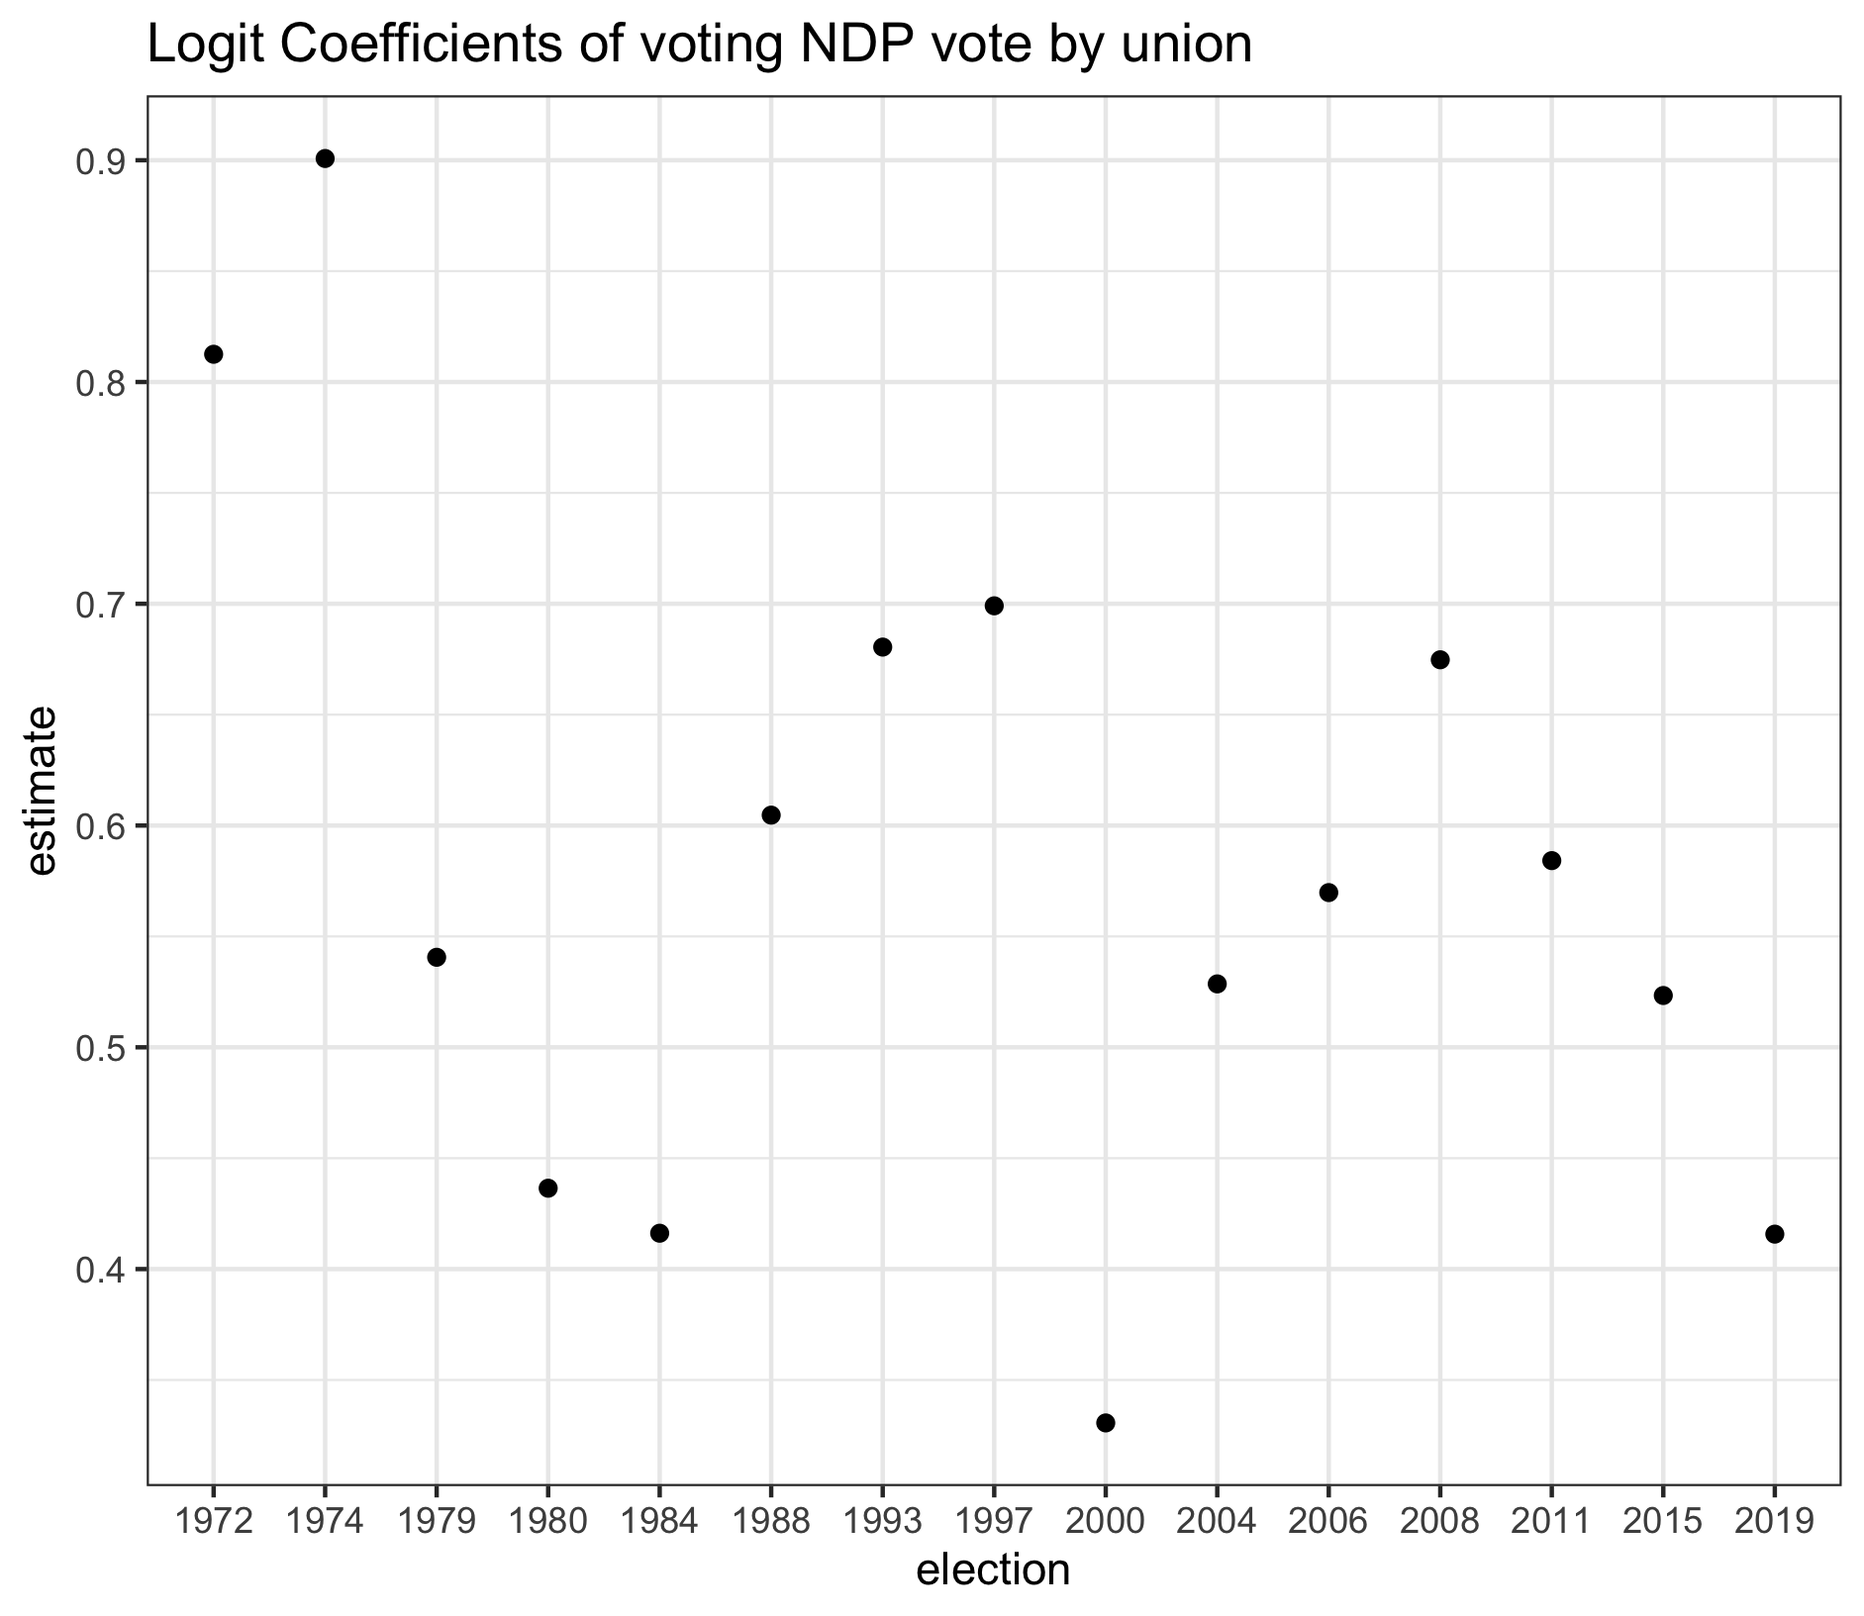
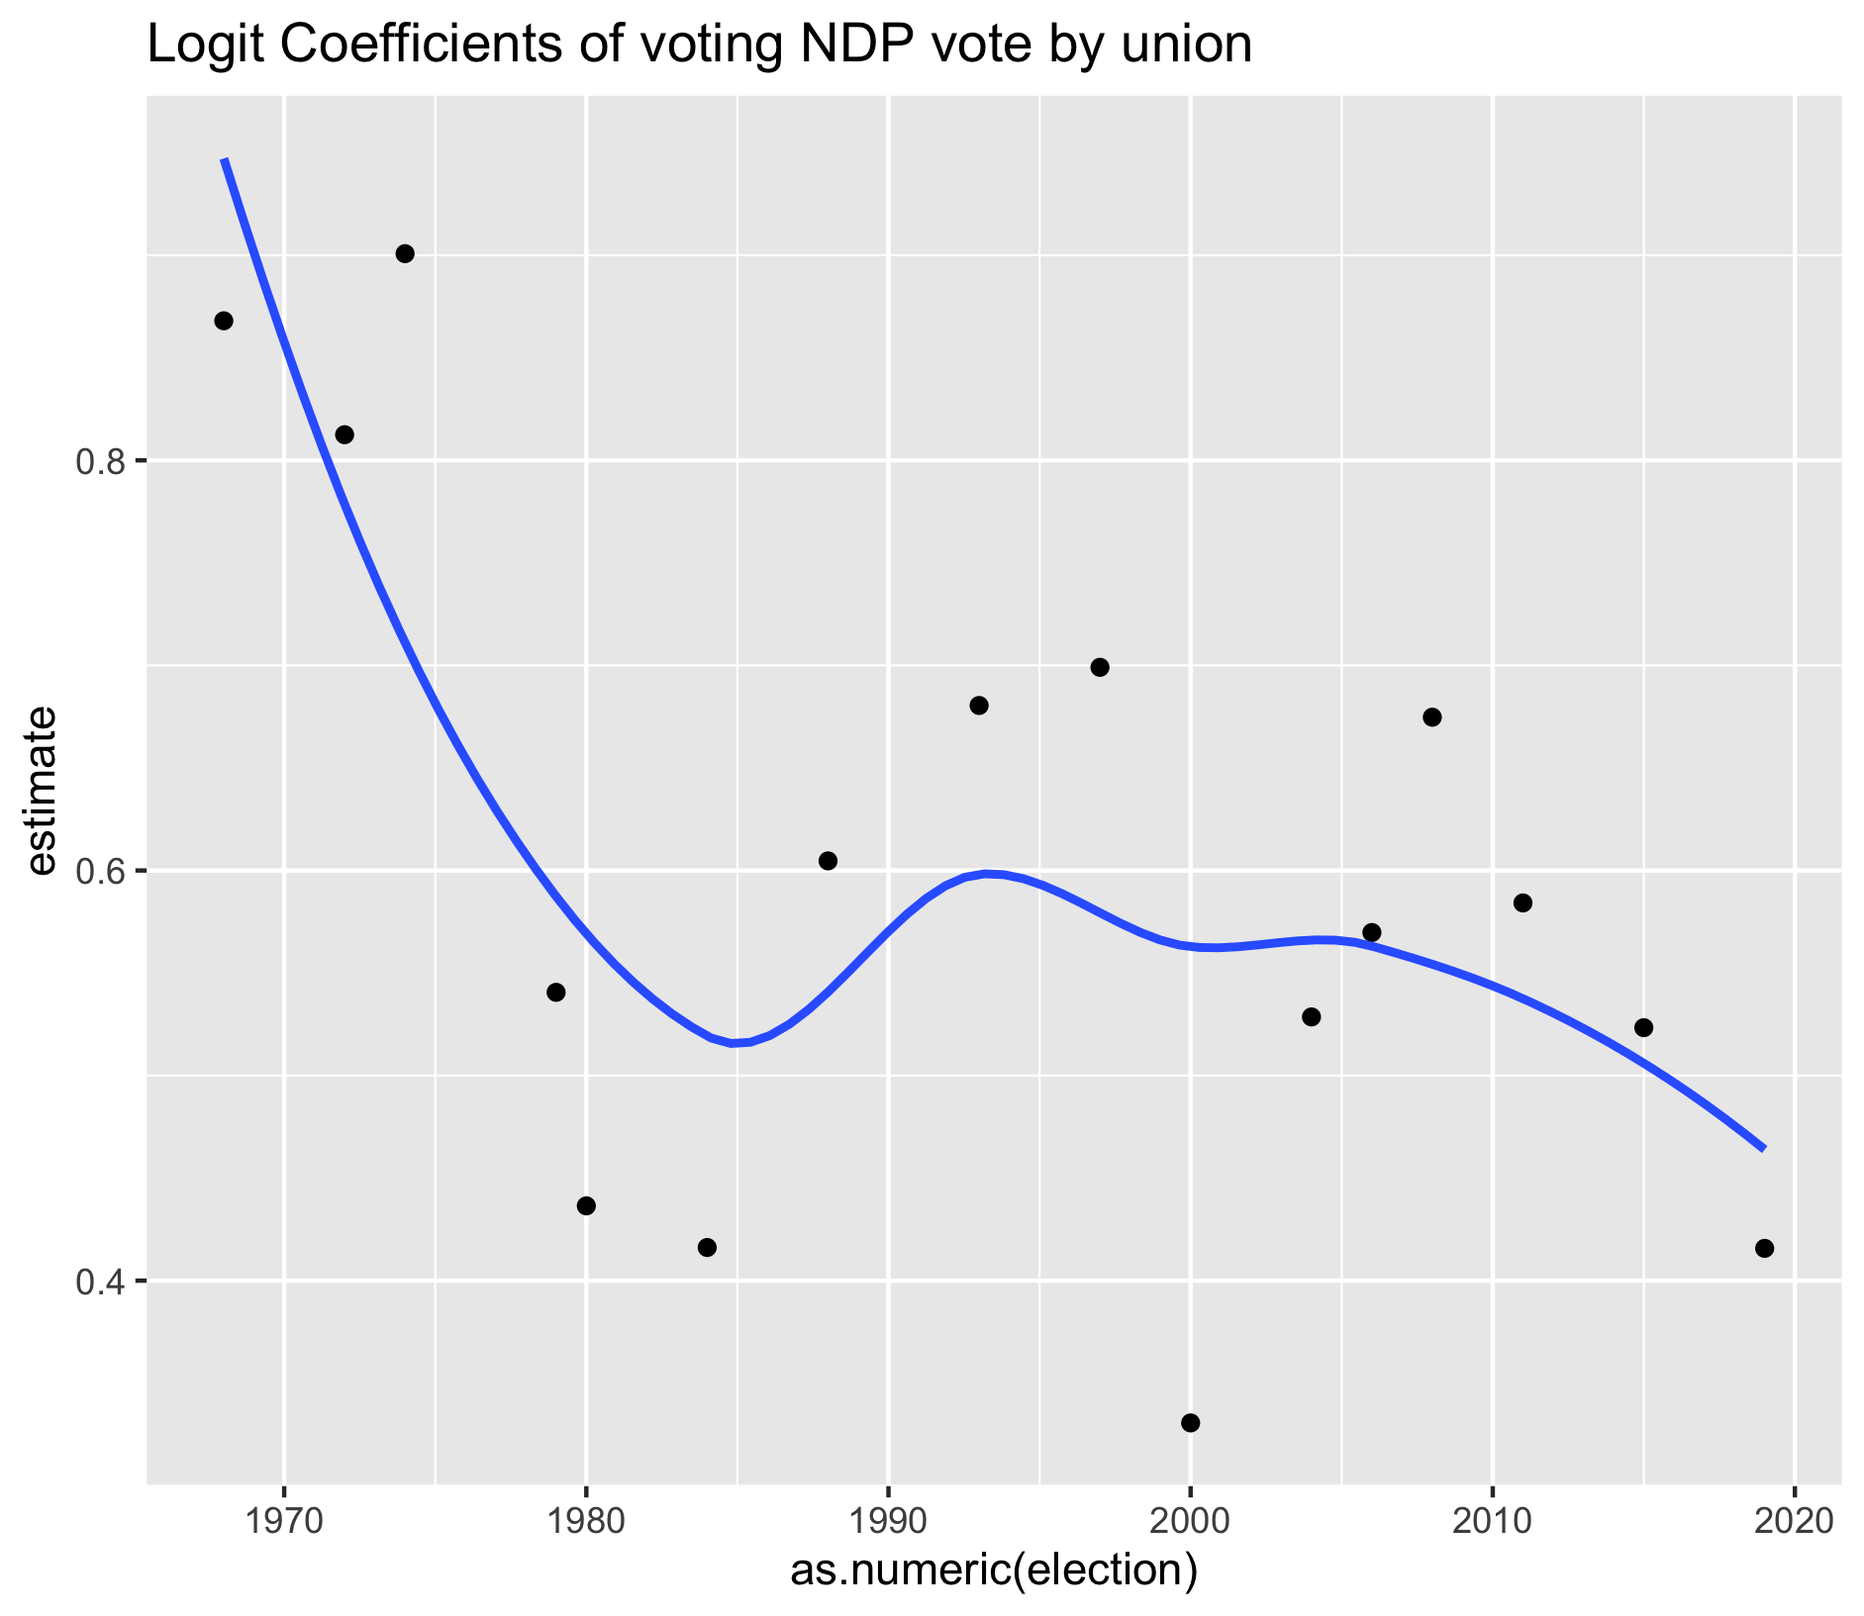
recode

diff --git a/Tables/union_models.html b/Tables/union_models.html
@@ -1,16 +1,19 @@
 
-<table style="text-align:center"><tr><td colspan="16" style="border-bottom: 1px solid black"></td></tr><tr><td style="text-align:left"></td><td colspan="15"><em>Dependent variable:</em></td></tr>
-<tr><td></td><td colspan="15" style="border-bottom: 1px solid black"></td></tr>
-<tr><td style="text-align:left"></td><td colspan="15">ndp</td></tr>
-<tr><td style="text-align:left"></td><td>(1)</td><td>(2)</td><td>(3)</td><td>(4)</td><td>(5)</td><td>(6)</td><td>(7)</td><td>(8)</td><td>(9)</td><td>(10)</td><td>(11)</td><td>(12)</td><td>(13)</td><td>(14)</td><td>(15)</td></tr>
-<tr><td colspan="16" style="border-bottom: 1px solid black"></td></tr><tr><td style="text-align:left">union</td><td>0.813<sup>***</sup></td><td>0.901<sup>***</sup></td><td>0.541<sup>***</sup></td><td>0.436<sup>***</sup></td><td>0.416<sup>***</sup></td><td>0.605<sup>***</sup></td><td>0.680<sup>***</sup></td><td>0.699<sup>***</sup></td><td>0.331<sup>**</sup></td><td>0.529<sup>***</sup></td><td>0.570<sup>***</sup></td><td>0.675<sup>***</sup></td><td>0.584<sup>***</sup></td><td>0.523<sup>***</sup></td><td>0.416<sup>***</sup></td></tr>
-<tr><td style="text-align:left"></td><td>(0.175)</td><td>(0.211)</td><td>(0.126)</td><td>(0.150)</td><td>(0.112)</td><td>(0.109)</td><td>(0.165)</td><td>(0.129)</td><td>(0.160)</td><td>(0.204)</td><td>(0.180)</td><td>(0.165)</td><td>(0.124)</td><td>(0.137)</td><td>(0.119)</td></tr>
-<tr><td style="text-align:left"></td><td></td><td></td><td></td><td></td><td></td><td></td><td></td><td></td><td></td><td></td><td></td><td></td><td></td><td></td><td></td></tr>
-<tr><td style="text-align:left">Constant</td><td>-1.893<sup>***</sup></td><td>-2.510<sup>***</sup></td><td>-1.921<sup>***</sup></td><td>-1.729<sup>***</sup></td><td>-1.794<sup>***</sup></td><td>-1.565<sup>***</sup></td><td>-2.944<sup>***</sup></td><td>-2.280<sup>***</sup></td><td>-2.408<sup>***</sup></td><td>-1.753<sup>***</sup></td><td>-1.759<sup>***</sup></td><td>-1.641<sup>***</sup></td><td>-0.935<sup>***</sup></td><td>-1.486<sup>***</sup></td><td>-1.571<sup>***</sup></td></tr>
-<tr><td style="text-align:left"></td><td>(0.114)</td><td>(0.144)</td><td>(0.076)</td><td>(0.089)</td><td>(0.066)</td><td>(0.070)</td><td>(0.118)</td><td>(0.090)</td><td>(0.098)</td><td>(0.138)</td><td>(0.128)</td><td>(0.116)</td><td>(0.077)</td><td>(0.086)</td><td>(0.060)</td></tr>
-<tr><td style="text-align:left"></td><td></td><td></td><td></td><td></td><td></td><td></td><td></td><td></td><td></td><td></td><td></td><td></td><td></td><td></td><td></td></tr>
-<tr><td colspan="16" style="border-bottom: 1px solid black"></td></tr><tr><td style="text-align:left">Observations</td><td>976</td><td>998</td><td>2,180</td><td>1,393</td><td>2,633</td><td>2,136</td><td>2,380</td><td>2,285</td><td>2,007</td><td>671</td><td>837</td><td>912</td><td>1,275</td><td>1,339</td><td>2,452</td></tr>
-<tr><td style="text-align:left">Log Likelihood</td><td>-431.422</td><td>-322.461</td><td>-905.692</td><td>-629.651</td><td>-1,148.811</td><td>-1,076.589</td><td>-572.747</td><td>-827.525</td><td>-612.861</td><td>-310.264</td><td>-393.063</td><td>-458.277</td><td>-794.814</td><td>-689.889</td><td>-1,173.357</td></tr>
-<tr><td style="text-align:left">Akaike Inf. Crit.</td><td>866.844</td><td>648.922</td><td>1,815.383</td><td>1,263.302</td><td>2,301.623</td><td>2,157.179</td><td>1,149.494</td><td>1,659.050</td><td>1,229.722</td><td>624.528</td><td>790.125</td><td>920.554</td><td>1,593.629</td><td>1,383.777</td><td>2,350.714</td></tr>
-<tr><td colspan="16" style="border-bottom: 1px solid black"></td></tr><tr><td style="text-align:left"><em>Note:</em></td><td colspan="15" style="text-align:right"><sup>*</sup>p<0.1; <sup>**</sup>p<0.05; <sup>***</sup>p<0.01</td></tr>
+<table style="text-align:center"><tr><td colspan="17" style="border-bottom: 1px solid black"></td></tr><tr><td style="text-align:left"></td><td colspan="16"><em>Dependent variable:</em></td></tr>
+<tr><td></td><td colspan="16" style="border-bottom: 1px solid black"></td></tr>
+<tr><td style="text-align:left"></td><td colspan="16">ndp</td></tr>
+<tr><td style="text-align:left"></td><td>(1)</td><td>(2)</td><td>(3)</td><td>(4)</td><td>(5)</td><td>(6)</td><td>(7)</td><td>(8)</td><td>(9)</td><td>(10)</td><td>(11)</td><td>(12)</td><td>(13)</td><td>(14)</td><td>(15)</td><td>(16)</td></tr>
+<tr><td colspan="17" style="border-bottom: 1px solid black"></td></tr><tr><td style="text-align:left">union</td><td>0.868<sup>***</sup></td><td>0.813<sup>***</sup></td><td>0.901<sup>***</sup></td><td>0.541<sup>***</sup></td><td>0.436<sup>***</sup></td><td>0.416<sup>***</sup></td><td>0.605<sup>***</sup></td><td>0.680<sup>***</sup></td><td>0.699<sup>***</sup></td><td>0.331<sup>**</sup></td><td>0.529<sup>***</sup></td><td>0.570<sup>***</sup></td><td>0.675<sup>***</sup></td><td>0.584<sup>***</sup></td><td>0.523<sup>***</sup></td><td>0.416<sup>***</sup></td></tr>
+<tr><td style="text-align:left"></td><td>(0.145)</td><td>(0.175)</td><td>(0.211)</td><td>(0.126)</td><td>(0.150)</td><td>(0.112)</td><td>(0.109)</td><td>(0.165)</td><td>(0.129)</td><td>(0.160)</td><td>(0.204)</td><td>(0.180)</td><td>(0.165)</td><td>(0.124)</td><td>(0.137)</td><td>(0.119)</td></tr>
+<tr><td style="text-align:left"></td><td></td><td></td><td></td><td></td><td></td><td></td><td></td><td></td><td></td><td></td><td></td><td></td><td></td><td></td><td></td><td></td></tr>
+<tr><td style="text-align:left">Constant</td><td>-2.189<sup>***</sup></td><td>-1.893<sup>***</sup></td><td>-2.510<sup>***</sup></td><td>-1.921<sup>***</sup></td><td>-1.729<sup>***</sup></td><td>-1.794<sup>***</sup></td><td>-1.565<sup>***</sup></td><td>-2.944<sup>***</sup></td><td>-2.280<sup>***</sup></td><td>-2.408<sup>***</sup></td><td>-1.753<sup>***</sup></td><td>-1.759<sup>***</sup></td><td>-1.641<sup>***</sup></td><td>-0.935<sup>***</sup></td><td>-1.486<sup>***</sup></td><td>-1.571<sup>***</sup></td></tr>
+<tr><td style="text-align:left"></td><td>(0.076)</td><td>(0.114)</td><td>(0.144)</td><td>(0.076)</td><td>(0.089)</td><td>(0.066)</td><td>(0.070)</td><td>(0.118)</td><td>(0.090)</td><td>(0.098)</td><td>(0.138)</td><td>(0.128)</td><td>(0.116)</td><td>(0.077)</td><td>(0.086)</td><td>(0.060)</td></tr>
+<tr><td style="text-align:left"></td><td></td><td></td><td></td><td></td><td></td><td></td><td></td><td></td><td></td><td></td><td></td><td></td><td></td><td></td><td></td><td></td></tr>
+<tr><td colspan="17" style="border-bottom: 1px solid black"></td></tr><tr><td style="text-align:left">Observations</td><td>2,280</td><td>976</td><td>998</td><td>2,180</td><td>1,393</td><td>2,633</td><td>2,136</td><td>2,380</td><td>2,285</td><td>2,007</td><td>671</td><td>837</td><td>912</td><td>1,275</td><td>1,339</td><td>2,452</td></tr>
+<tr><td style="text-align:left">Log Likelihood</td><td>-819.020</td><td>-431.422</td><td>-322.461</td><td>-905.692</td><td>-629.651</td><td>-1,148.811</td><td>-1,076.589</td><td>-572.747</td><td>-827.525</td><td>-612.861</td><td>-310.264</td><td>-393.063</td><td>-458.277</td><td>-794.814</td><td>-689.889</td><td>-1,173.357</td></tr>
+<tr><td style="text-align:left">Akaike Inf. Crit.</td><td>1,642.039</td><td>866.844</td><td>648.922</td><td>1,815.383</td><td>1,263.302</td><td>2,301.623</td><td>2,157.179</td><td>1,149.494</td><td>1,659.050</td><td>1,229.722</td><td>624.528</td><td>790.125</td><td>920.554</td><td>1,593.629</td><td>1,383.777</td><td>2,350.714</td></tr>
+<tr><td colspan="17" style="border-bottom: 1px solid black"></td></tr><tr><td style="text-align:left"><em>Note:</em></td><td colspan="16" style="text-align:right"><sup>*</sup>p<0.1; <sup>**</sup>p<0.05; <sup>***</sup>p<0.01</td></tr>
 </table>
+
+<table style="text-align:center"><tr><td colspan="16" style="border-bottom: 1px solid black"></td></tr><tr><td style="text-align:left">1968</td><td>1972</td><td>1974</td><td>1979</td><td>1980</td><td>1984</td><td>1988</td><td>1993</td><td>1997</td><td>2000</td><td>2004</td><td>2006</td><td>2008</td><td>2011</td><td>2015</td><td>2019</td></tr>
+<tr><td colspan="16" style="border-bottom: 1px solid black"></td></tr></table>

diff --git a/Tables/conservative_Models_1968_2015.html b/Tables/conservative_Models_1968_2015.html
@@ -46,5 +46,5 @@
 <tr><td style="text-align:left">Residual Std. Error</td><td>0.428 (df = 2269)</td><td>0.445 (df = 962)</td><td>0.449 (df = 2125)</td><td>0.438 (df = 1344)</td><td>0.489 (df = 2567)</td><td>0.489 (df = 1817)</td><td>0.442 (df = 1934)</td><td>0.460 (df = 2088)</td><td>0.435 (df = 1938)</td><td>0.436 (df = 1276)</td><td>0.465 (df = 1157)</td><td>0.459 (df = 1743)</td><td>0.462 (df = 2019)</td><td>0.430 (df = 2336)</td></tr>
 <tr><td style="text-align:left">F Statistic</td><td>21.258<sup>*</sup> (df = 11; 2269)</td><td>10.756<sup>*</sup> (df = 11; 962)</td><td>33.324<sup>*</sup> (df = 11; 2125)</td><td>21.877<sup>*</sup> (df = 11; 1344)</td><td>5.956<sup>*</sup> (df = 11; 2567)</td><td>7.733<sup>*</sup> (df = 11; 1817)</td><td>26.977<sup>*</sup> (df = 11; 1934)</td><td>27.967<sup>*</sup> (df = 11; 2088)</td><td>42.955<sup>*</sup> (df = 10; 1938)</td><td>18.460<sup>*</sup> (df = 11; 1276)</td><td>8.996<sup>*</sup> (df = 11; 1157)</td><td>17.882<sup>*</sup> (df = 11; 1743)</td><td>24.112<sup>*</sup> (df = 11; 2019)</td><td>22.085<sup>*</sup> (df = 11; 2336)</td></tr>
 <tr><td colspan="15" style="border-bottom: 1px solid black"></td></tr><tr><td style="text-align:left"><em>Note:</em></td><td colspan="14" style="text-align:right"><sup>*</sup>p<0.05; <sup>**</sup>p<[0.**]; <sup>***</sup>p<[0.***]</td></tr>
-<tr><td style="text-align:left"></td><td colspan="14" style="text-align:right">Printed on 2020-06-17 11:29:52 by</td></tr>
+<tr><td style="text-align:left"></td><td colspan="14" style="text-align:right">Printed on 2020-06-18 13:39:31 by</td></tr>
 </table>

diff --git a/Tables/liberal_Models_1968_2015.html b/Tables/liberal_Models_1968_2015.html
@@ -46,5 +46,5 @@
 <tr><td style="text-align:left">Residual Std. Error</td><td>0.479 (df = 2269)</td><td>0.481 (df = 962)</td><td>0.464 (df = 2125)</td><td>0.461 (df = 1344)</td><td>0.418 (df = 2567)</td><td>0.446 (df = 1817)</td><td>0.476 (df = 1934)</td><td>0.464 (df = 2088)</td><td>0.475 (df = 1938)</td><td>0.461 (df = 1276)</td><td>0.427 (df = 1157)</td><td>0.422 (df = 1743)</td><td>0.382 (df = 2019)</td><td>0.483 (df = 2336)</td></tr>
 <tr><td style="text-align:left">F Statistic</td><td>16.049<sup>*</sup> (df = 11; 2269)</td><td>7.636<sup>*</sup> (df = 11; 962)</td><td>28.664<sup>*</sup> (df = 11; 2125)</td><td>22.503<sup>*</sup> (df = 11; 1344)</td><td>15.415<sup>*</sup> (df = 11; 2567)</td><td>15.109<sup>*</sup> (df = 11; 1817)</td><td>16.514<sup>*</sup> (df = 11; 1934)</td><td>12.668<sup>*</sup> (df = 11; 2088)</td><td>11.229<sup>*</sup> (df = 10; 1938)</td><td>7.212<sup>*</sup> (df = 11; 1276)</td><td>7.520<sup>*</sup> (df = 11; 1157)</td><td>10.213<sup>*</sup> (df = 11; 1743)</td><td>9.055<sup>*</sup> (df = 11; 2019)</td><td>12.394<sup>*</sup> (df = 11; 2336)</td></tr>
 <tr><td colspan="15" style="border-bottom: 1px solid black"></td></tr><tr><td style="text-align:left"><em>Note:</em></td><td colspan="14" style="text-align:right"><sup>*</sup>p<0.05; <sup>**</sup>p<[0.**]; <sup>***</sup>p<[0.***]</td></tr>
-<tr><td style="text-align:left"></td><td colspan="14" style="text-align:right">Printed on 2020-06-17 11:29:49 by</td></tr>
+<tr><td style="text-align:left"></td><td colspan="14" style="text-align:right">Printed on 2020-06-18 13:39:29 by</td></tr>
 </table>

diff --git a/Tables/NDP_Models_1968_2015.html b/Tables/NDP_Models_1968_2015.html
@@ -46,5 +46,5 @@
 <tr><td style="text-align:left">Residual Std. Error</td><td>0.314 (df = 2269)</td><td>0.296 (df = 962)</td><td>0.342 (df = 2125)</td><td>0.365 (df = 1344)</td><td>0.354 (df = 2567)</td><td>0.396 (df = 1817)</td><td>0.249 (df = 1934)</td><td>0.312 (df = 2088)</td><td>0.279 (df = 1938)</td><td>0.360 (df = 1276)</td><td>0.381 (df = 1157)</td><td>0.387 (df = 1743)</td><td>0.455 (df = 2019)</td><td>0.396 (df = 2336)</td></tr>
 <tr><td style="text-align:left">F Statistic</td><td>13.527<sup>*</sup> (df = 11; 2269)</td><td>6.211<sup>*</sup> (df = 11; 962)</td><td>15.732<sup>*</sup> (df = 11; 2125)</td><td>8.330<sup>*</sup> (df = 11; 1344)</td><td>15.640<sup>*</sup> (df = 11; 2567)</td><td>14.056<sup>*</sup> (df = 11; 1817)</td><td>8.981<sup>*</sup> (df = 11; 1934)</td><td>15.055<sup>*</sup> (df = 11; 2088)</td><td>13.323<sup>*</sup> (df = 10; 1938)</td><td>8.478<sup>*</sup> (df = 11; 1276)</td><td>7.146<sup>*</sup> (df = 11; 1157)</td><td>8.976<sup>*</sup> (df = 11; 1743)</td><td>7.813<sup>*</sup> (df = 11; 2019)</td><td>9.922<sup>*</sup> (df = 11; 2336)</td></tr>
 <tr><td colspan="15" style="border-bottom: 1px solid black"></td></tr><tr><td style="text-align:left"><em>Note:</em></td><td colspan="14" style="text-align:right"><sup>*</sup>p<0.05; <sup>**</sup>p<[0.**]; <sup>***</sup>p<[0.***]</td></tr>
-<tr><td style="text-align:left"></td><td colspan="14" style="text-align:right">Printed on 2020-06-17 11:29:47 by</td></tr>
+<tr><td style="text-align:left"></td><td colspan="14" style="text-align:right">Printed on 2020-06-18 13:39:26 by</td></tr>
 </table>

diff --git a/Tables/M1_Blais_replication_liberal.html b/Tables/M1_Blais_replication_liberal.html
@@ -49,5 +49,5 @@
 <tr><td style="text-align:left">Residual Std. Error</td><td>0.475 (df = 2268)</td><td>0.478 (df = 961)</td><td>0.463 (df = 2124)</td><td>0.461 (df = 1343)</td><td>0.418 (df = 2566)</td></tr>
 <tr><td style="text-align:left">F Statistic</td><td>17.989<sup>***</sup> (df = 12; 2268)</td><td>8.415<sup>***</sup> (df = 12; 961)</td><td>26.697<sup>***</sup> (df = 12; 2124)</td><td>20.630<sup>***</sup> (df = 12; 1343)</td><td>14.386<sup>***</sup> (df = 12; 2566)</td></tr>
 <tr><td colspan="6" style="border-bottom: 1px solid black"></td></tr><tr><td style="text-align:left"><em>Note:</em></td><td colspan="5" style="text-align:right"><sup>*</sup>p<0.1; <sup>**</sup>p<0.05; <sup>***</sup>p<0.01</td></tr>
-<tr><td style="text-align:left"></td><td colspan="5" style="text-align:right">Printed on 2020-06-17 11:29:46 by</td></tr>
+<tr><td style="text-align:left"></td><td colspan="5" style="text-align:right">Printed on 2020-06-18 13:39:25 by</td></tr>
 </table>

diff --git a/Tables/M1_Blais_replication_ndp.html b/Tables/M1_Blais_replication_ndp.html
@@ -49,5 +49,5 @@
 <tr><td style="text-align:left">Residual Std. Error</td><td>0.314 (df = 2268)</td><td>0.297 (df = 961)</td><td>0.341 (df = 2124)</td><td>0.364 (df = 1343)</td><td>0.354 (df = 2566)</td></tr>
 <tr><td style="text-align:left">F Statistic</td><td>12.724<sup>***</sup> (df = 12; 2268)</td><td>5.691<sup>***</sup> (df = 12; 961)</td><td>15.098<sup>***</sup> (df = 12; 2124)</td><td>8.180<sup>***</sup> (df = 12; 1343)</td><td>14.493<sup>***</sup> (df = 12; 2566)</td></tr>
 <tr><td colspan="6" style="border-bottom: 1px solid black"></td></tr><tr><td style="text-align:left"><em>Note:</em></td><td colspan="5" style="text-align:right"><sup>*</sup>p<0.1; <sup>**</sup>p<0.05; <sup>***</sup>p<0.01</td></tr>
-<tr><td style="text-align:left"></td><td colspan="5" style="text-align:right">Printed on 2020-06-17 11:29:43 by</td></tr>
+<tr><td style="text-align:left"></td><td colspan="5" style="text-align:right">Printed on 2020-06-18 13:39:22 by</td></tr>
 </table>

diff --git a/Tables/M1_Blais_replication_con.html b/Tables/M1_Blais_replication_con.html
@@ -49,5 +49,5 @@
 <tr><td style="text-align:left">Residual Std. Error</td><td>0.425 (df = 2268)</td><td>0.443 (df = 961)</td><td>0.448 (df = 2124)</td><td>0.437 (df = 1343)</td><td>0.488 (df = 2566)</td></tr>
 <tr><td style="text-align:left">F Statistic</td><td>22.696<sup>*</sup> (df = 12; 2268)</td><td>10.764<sup>*</sup> (df = 12; 961)</td><td>31.837<sup>*</sup> (df = 12; 2124)</td><td>20.650<sup>*</sup> (df = 12; 1343)</td><td>6.289<sup>*</sup> (df = 12; 2566)</td></tr>
 <tr><td colspan="6" style="border-bottom: 1px solid black"></td></tr><tr><td style="text-align:left"><em>Note:</em></td><td colspan="5" style="text-align:right"><sup>*</sup>p<0.05; <sup>**</sup>p<[0.**]; <sup>***</sup>p<[0.***]</td></tr>
-<tr><td style="text-align:left"></td><td colspan="5" style="text-align:right">Printed on 2020-06-17 11:29:44 by</td></tr>
+<tr><td style="text-align:left"></td><td colspan="5" style="text-align:right">Printed on 2020-06-18 13:39:23 by</td></tr>
 </table>
